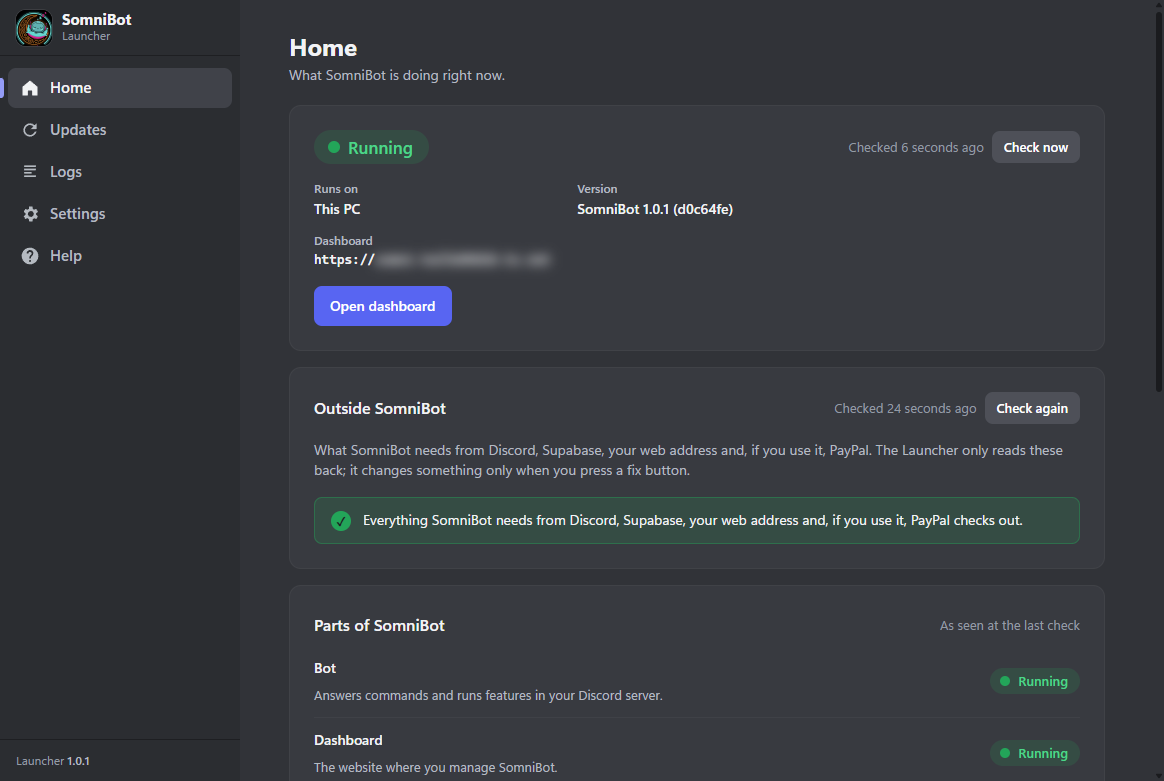
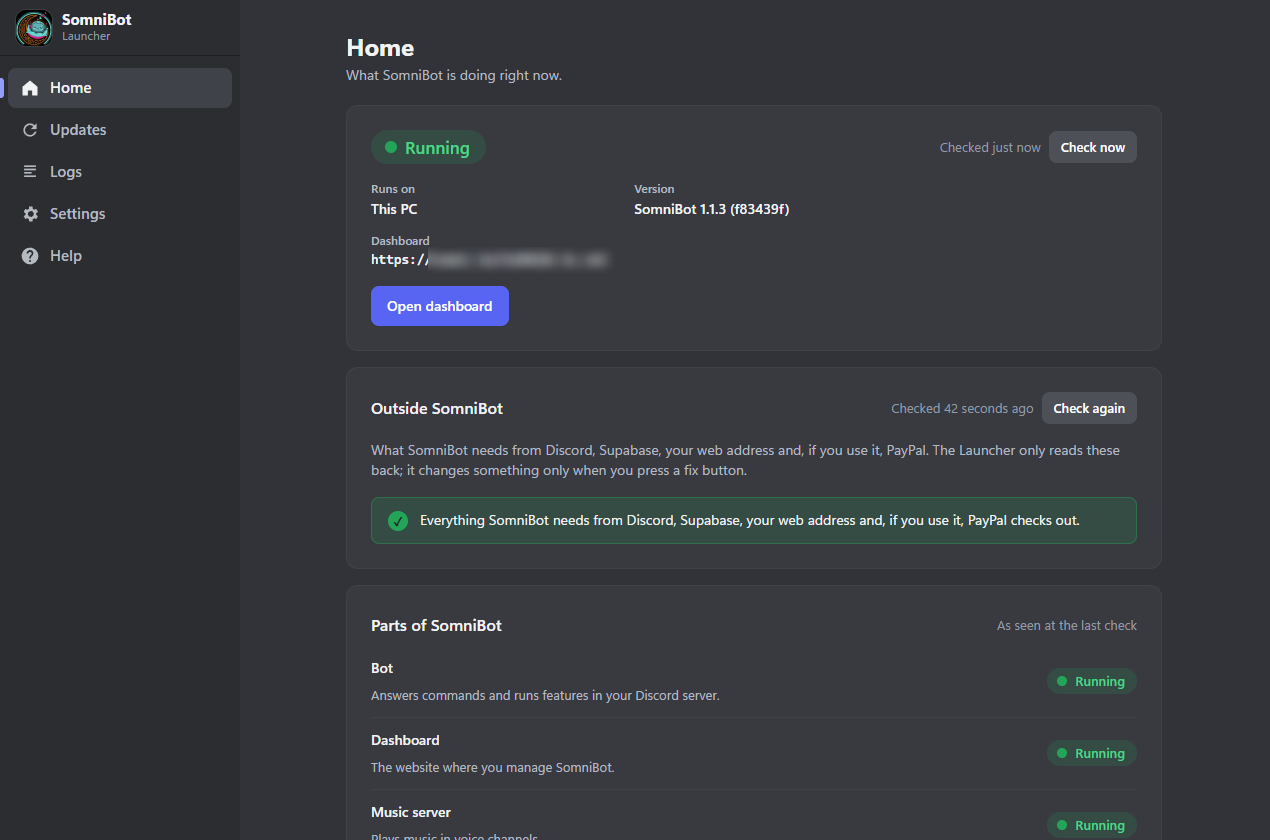
SomniBot 1.1.3: one-click updates with GitHub sign-in, and the Launcher updates itself

diff --git a/README.md b/README.md
@@ -206,6 +206,8 @@ starts and stops it, updates it, and rolls back to the version before.
   Checks, the download, the backup and database changes happen before anything running
   is touched. If the new version doesn't pass its health check, the Launcher switches
   back on its own.
+- **One-click updates.** Sign in with GitHub once and the Launcher lists each new
+  version of SomniBot, installs it with one click, and keeps itself up to date too.
 - **Your data, portable.** Export everything (every table and every uploaded file) to
   one file, and import it on another machine or database.
 - **Your database, your choice.** A Supabase project, your own Supabase, or a database
